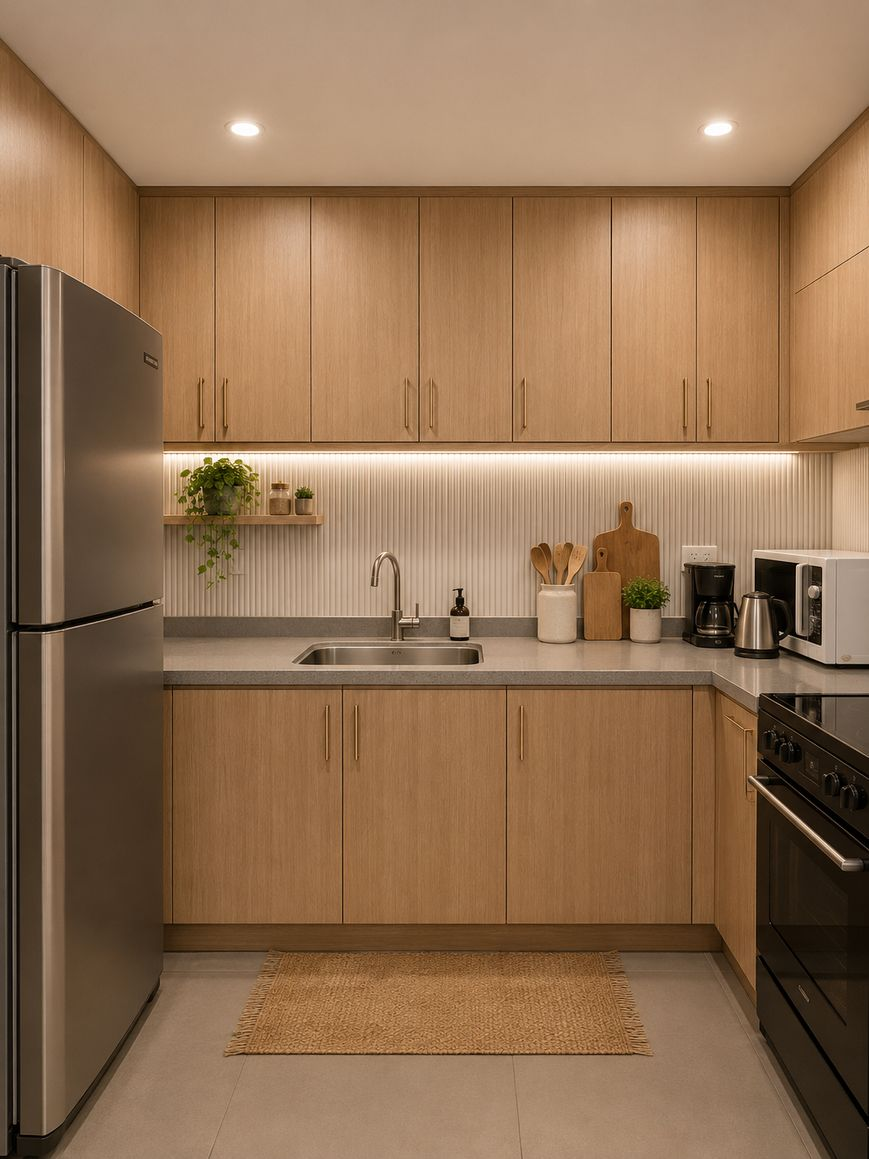
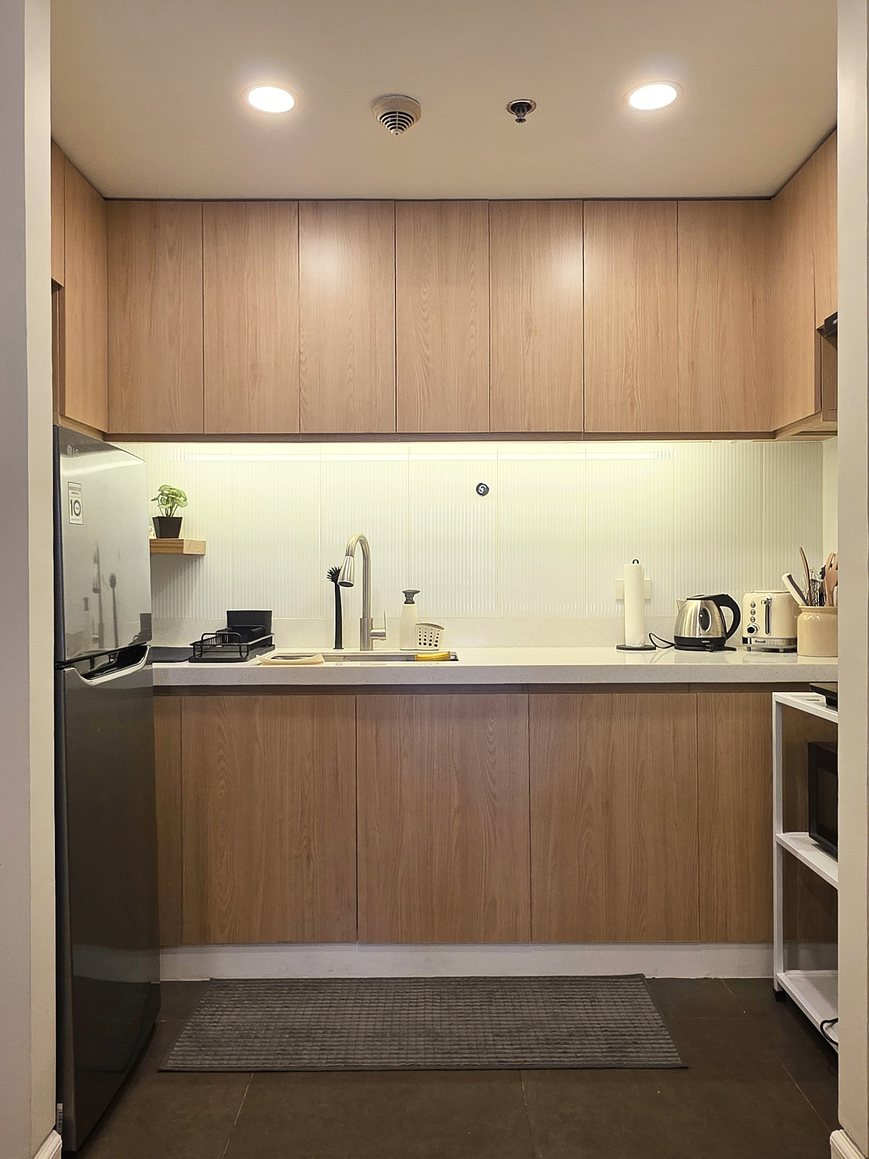
Replace design renders with real color-graded unit photos; sleeps up to 6
Claude-Session: https://claude.ai/code/session_01REHnRUMseM1XVGoCtBDXVH

diff --git a/index.html b/index.html
@@ -25,7 +25,7 @@
 <style>:root{color-scheme:light;padding-top:env(safe-area-inset-top,0px);padding-bottom:env(safe-area-inset-bottom,0px)}body{margin:0;font:14px/1.5 system-ui,sans-serif}img{max-width:100%}[hidden]{display:none!important}</style>
 <title>Solace at Manhattan Parkway</title>
 <meta name="claude:viewport-fit-sides" content="cover">
-<meta name="description" content="Solace at Manhattan Parkway — a calm, newly designed one-bedroom stay in Araneta City, Cubao, Quezon City. Sleeps up to 5, with walkways to Gateway Mall, MRT-3 and LRT-2.">
+<meta name="description" content="Solace at Manhattan Parkway — a calm, newly designed one-bedroom stay in Araneta City, Cubao, Quezon City. Sleeps up to 6, with walkways to Gateway Mall, MRT-3 and LRT-2.">
 <link rel="preconnect" href="https://fonts.googleapis.com">
 <link rel="preconnect" href="https://fonts.gstatic.com" crossorigin>
 <link rel="stylesheet" href="https://fonts.googleapis.com/css2?family=Marcellus&family=Karla:wght@400;500;600;700&display=swap">
@@ -307,19 +307,18 @@ footer .wrap{display:flex;flex-wrap:wrap;gap:10px 28px;justify-content:space-bet
       <div class="hero-copy">
         <p class="eyebrow">Manhattan Parkway Tower 2 · Araneta City · Cubao</p>
         <h1>Solace<span>at Manhattan Parkway</span></h1>
-        <p class="lede">A calm, newly designed one-bedroom home in the middle of Araneta City. Warm oak, soft lighting and room for up to four, with walkways to Gateway Mall, the MRT and the LRT.</p>
+        <p class="lede">A calm, newly designed one-bedroom home in the middle of Araneta City. Warm oak, soft lighting and room for up to six, with walkways to Gateway Mall, the MRT and the LRT.</p>
         <div class="ctas">
           <a class="btn btn-primary" href="#book">Check availability</a>
           <a class="btn btn-ghost" href="#space">Tour the space</a>
         </div>
       </div>
       <div class="hero-img">
-        <img src="img/living.jpg" alt="Living room with a beige sectional sofa, round oak coffee table and fluted oak TV wall" width="1232" height="978">
-        <span class="tag">Design render · photos coming soon</span>
+        <img src="img/living.jpg" alt="Living room with a cream sofa bed, glass coffee table and fluted wood wall" width="1232" height="978">
       </div>
     </div>
     <div class="facts">
-      <div class="fact"><b>Up to 4</b><span>guests</span></div>
+      <div class="fact"><b>Up to 6</b><span>guests</span></div>
       <div class="fact"><b>42 sqm</b><span>1 bedroom · queen + sofa bed</span></div>
       <div class="fact"><b>Full kitchen</b><span>cook, dine, stay longer</span></div>
       <div class="fact"><b>Pool &amp; gym</b><span>plus a kids play area</span></div>
@@ -350,7 +349,7 @@ footer .wrap{display:flex;flex-wrap:wrap;gap:10px 28px;justify-content:space-bet
     <div class="rooms">
       <article class="room">
         <div class="room-media two">
-          <button type="button" data-lb="0" aria-label="Enlarge living room image"><img src="img/living.jpg" alt="Living room with sectional sofa and fluted oak TV wall" loading="lazy"></button>
+          <button type="button" data-lb="0" aria-label="Enlarge living room image"><img src="img/living.jpg" alt="Living room with cream sofa bed and fluted wood wall" loading="lazy"></button>
           <button type="button" data-lb="1" aria-label="Enlarge sofa bed image"><img src="img/sofabed.jpg" alt="Living room sofa pulled out into a bed" loading="lazy"></button>
         </div>
         <div class="room-text">
@@ -385,7 +384,7 @@ footer .wrap{display:flex;flex-wrap:wrap;gap:10px 28px;justify-content:space-bet
       <article class="room flip">
         <div class="room-media two">
           <button type="button" data-lb="4" aria-label="Enlarge kitchen image"><img src="img/kitchen.jpg" alt="L-shaped oak kitchen with stainless fridge, induction cooktop and microwave" loading="lazy"></button>
-          <button type="button" data-lb="5" aria-label="Enlarge dining image"><img src="img/dining.jpg" alt="Entryway with pull-out oak dining table, spice shelves and shoe cabinet" loading="lazy"></button>
+          <button type="button" data-lb="5" aria-label="Enlarge dining image"><img src="img/dining.jpg" alt="Entryway with oak dining table and chairs, lit display shelves and the front door" loading="lazy"></button>
         </div>
         <div class="room-text">
           <span class="room-num">Kitchen &amp; dining</span>
@@ -607,7 +606,7 @@ footer .wrap{display:flex;flex-wrap:wrap;gap:10px 28px;justify-content:space-bet
       <div class="notes">
         <div class="note"><h3>Check-in &amp; check-out</h3><p>Times and arrival instructions are sent after booking, with a welcome guide covering the building, pool, gym, kids play area and nearby spots.</p></div>
         <div class="note"><h3>Who it's for</h3><p>Couples, small families, friends in town for a concert at the Big Dome, and business travelers who want a kitchen and space to spread out.</p></div>
-        <div class="note"><h3>About these images</h3><p>The unit has just been renovated, and the unit images on this site are design renders of the finished space. Building amenity photos are real; unit photos are coming soon.</p></div>
+        <div class="note"><h3>Real photos</h3><p>Every photo on this site was taken in the unit and around Manhattan Parkway, so what you see is what you get.</p></div>
       </div>
     </div>
   </div>
@@ -775,9 +774,9 @@ const FOOD = [
   renderEvents('all');
 
   // ---------- lightbox ----------
-  const shots = [['img/living.jpg','Living room'],['img/sofabed.jpg','Living room with the sofa bed open'],['img/bedroom.jpg','Bedroom'],['img/wardrobe.jpg','Wardrobe and vanity'],['img/kitchen.jpg','Kitchen'],['img/dining.jpg','Dining and entryway'],['img/bath1.jpg','Bathroom'],['img/bath2.jpg','Rain shower']];
+  const shots = [['img/living.jpg','Living room'],['img/sofabed.jpg','Living room with the sofa bed open'],['img/bedroom.jpg','Bedroom'],['img/wardrobe.jpg','Wardrobe and vanity'],['img/kitchen.jpg','Kitchen'],['img/dining.jpg','Dining and entryway'],['img/bath1.jpg','Bathroom'],['img/bath2.jpg','Bathroom and shower']];
   const lb = $('#lb'), img = $('#lbImg'), cap = $('#lbCap'); let i = 0, last = null;
-  const show = n => { i = (n + shots.length) % shots.length; img.src = shots[i][0]; img.alt = shots[i][1]; cap.textContent = shots[i][1] + ' · design render'; };
+  const show = n => { i = (n + shots.length) % shots.length; img.src = shots[i][0]; img.alt = shots[i][1]; cap.textContent = shots[i][1]; };
   $$('[data-lb]').forEach(b => b.addEventListener('click', () => { last = b; show(+b.dataset.lb); lb.hidden = false; lb.querySelector('.lb-x').focus(); }));
   const close = () => { lb.hidden = true; if (last) last.focus(); };
   lb.querySelector('.lb-x').onclick = close;
